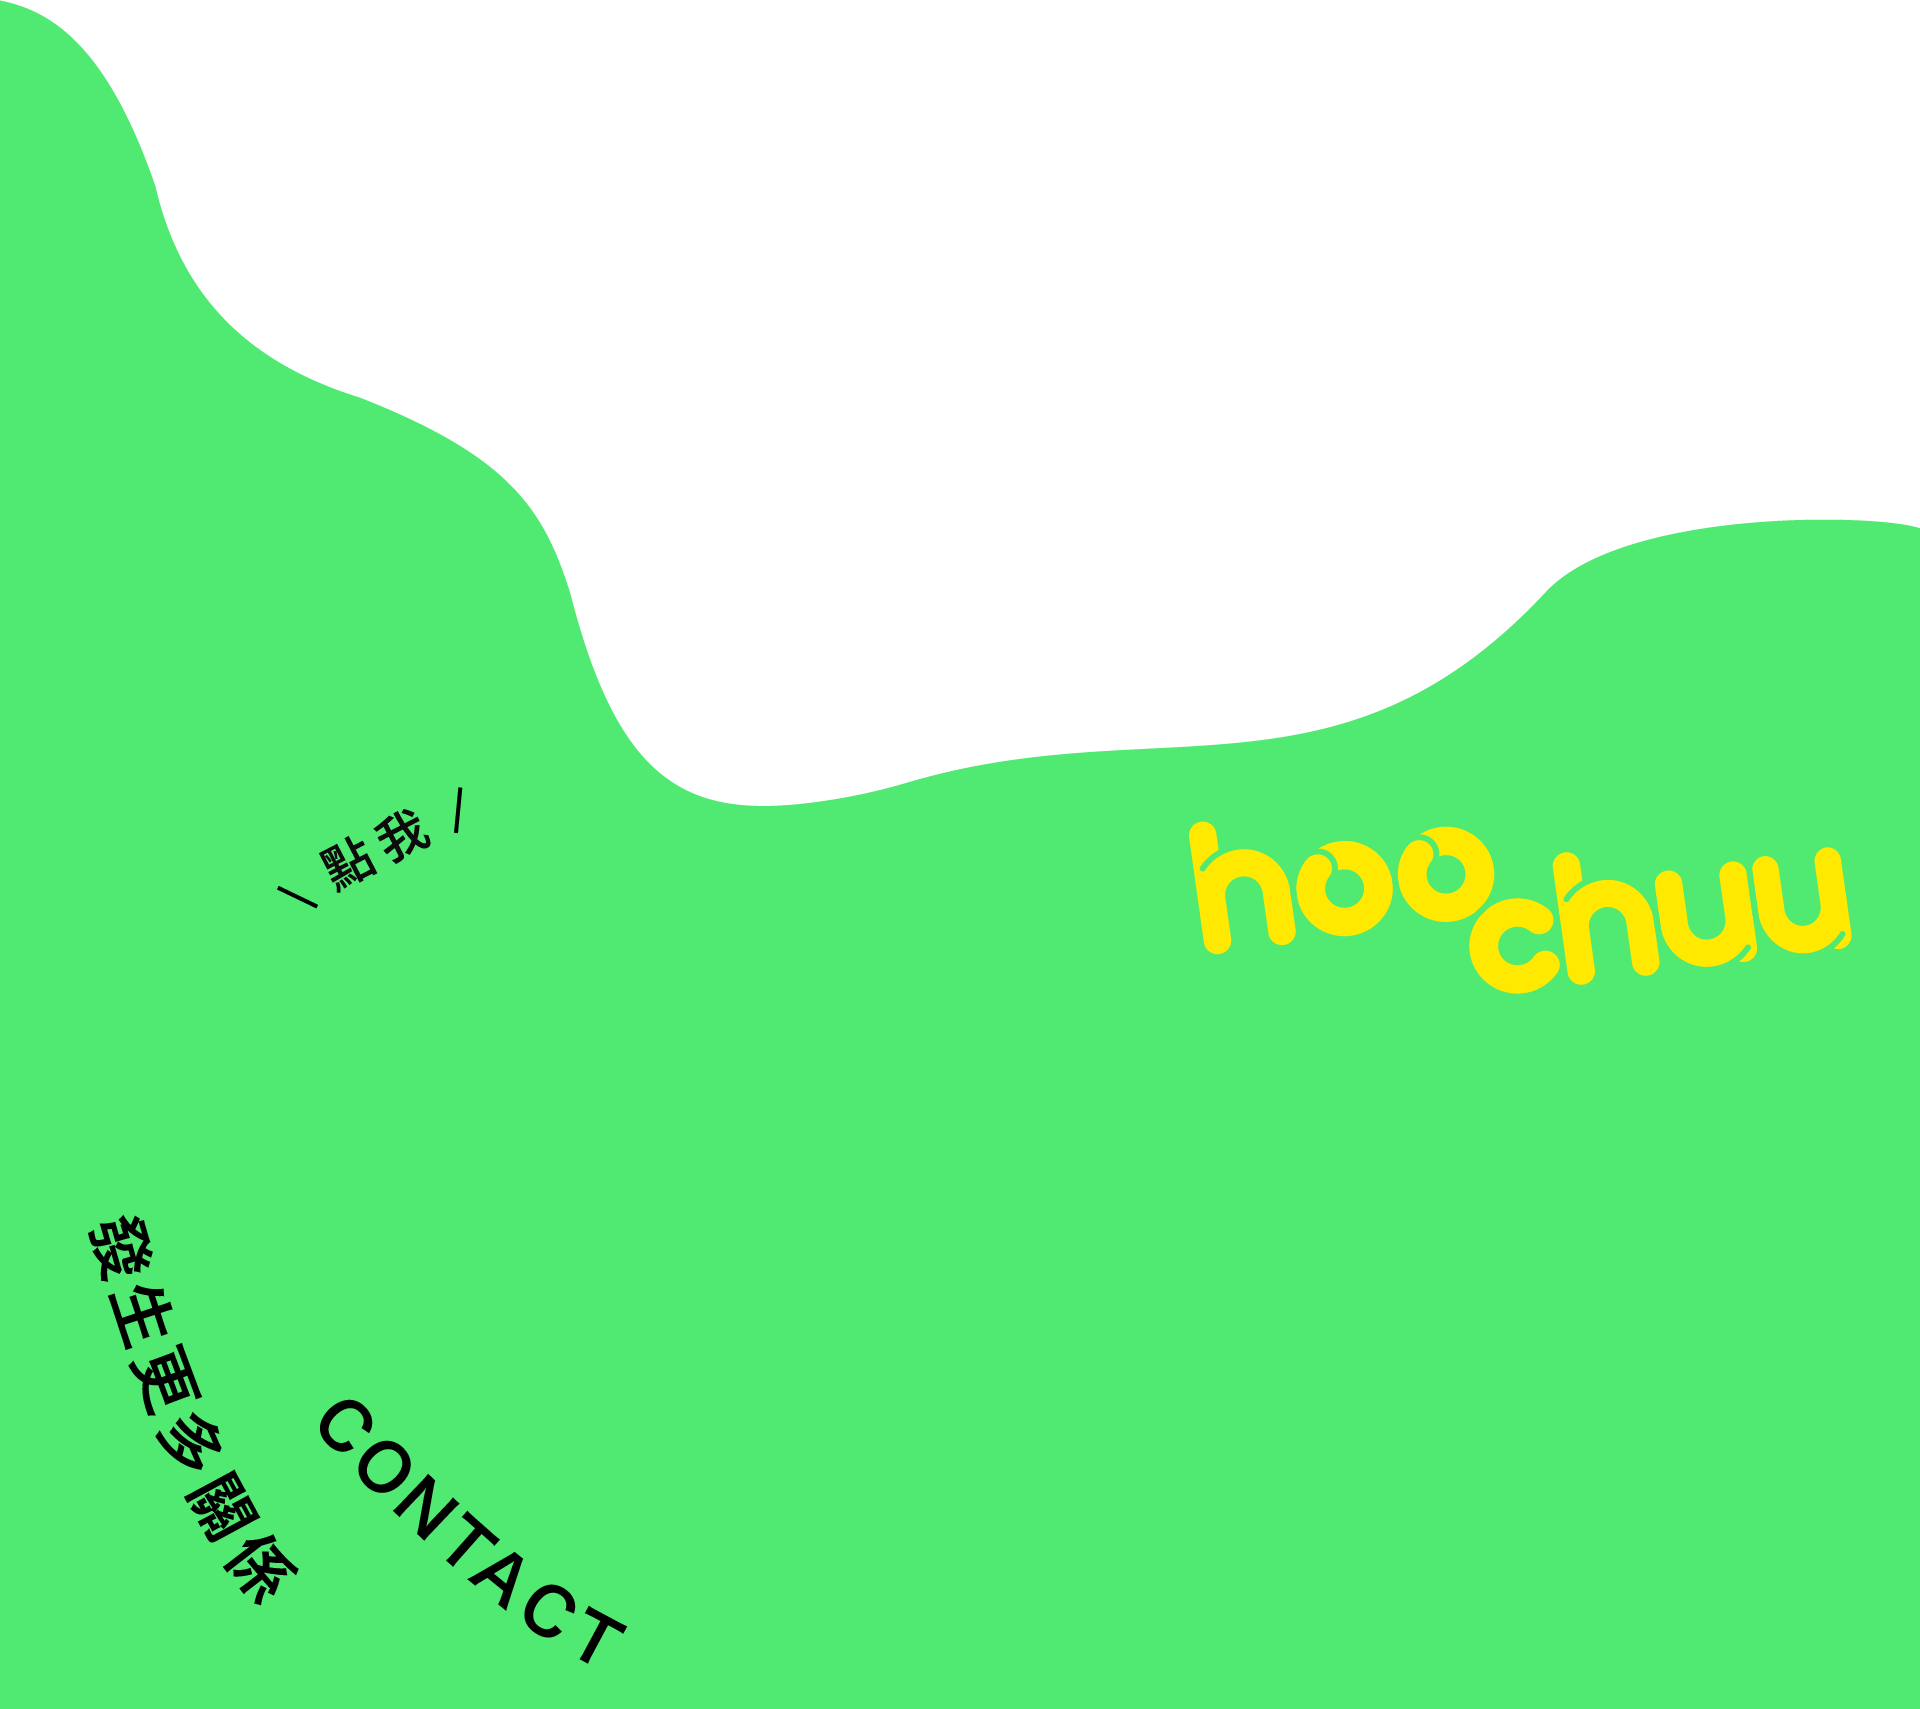
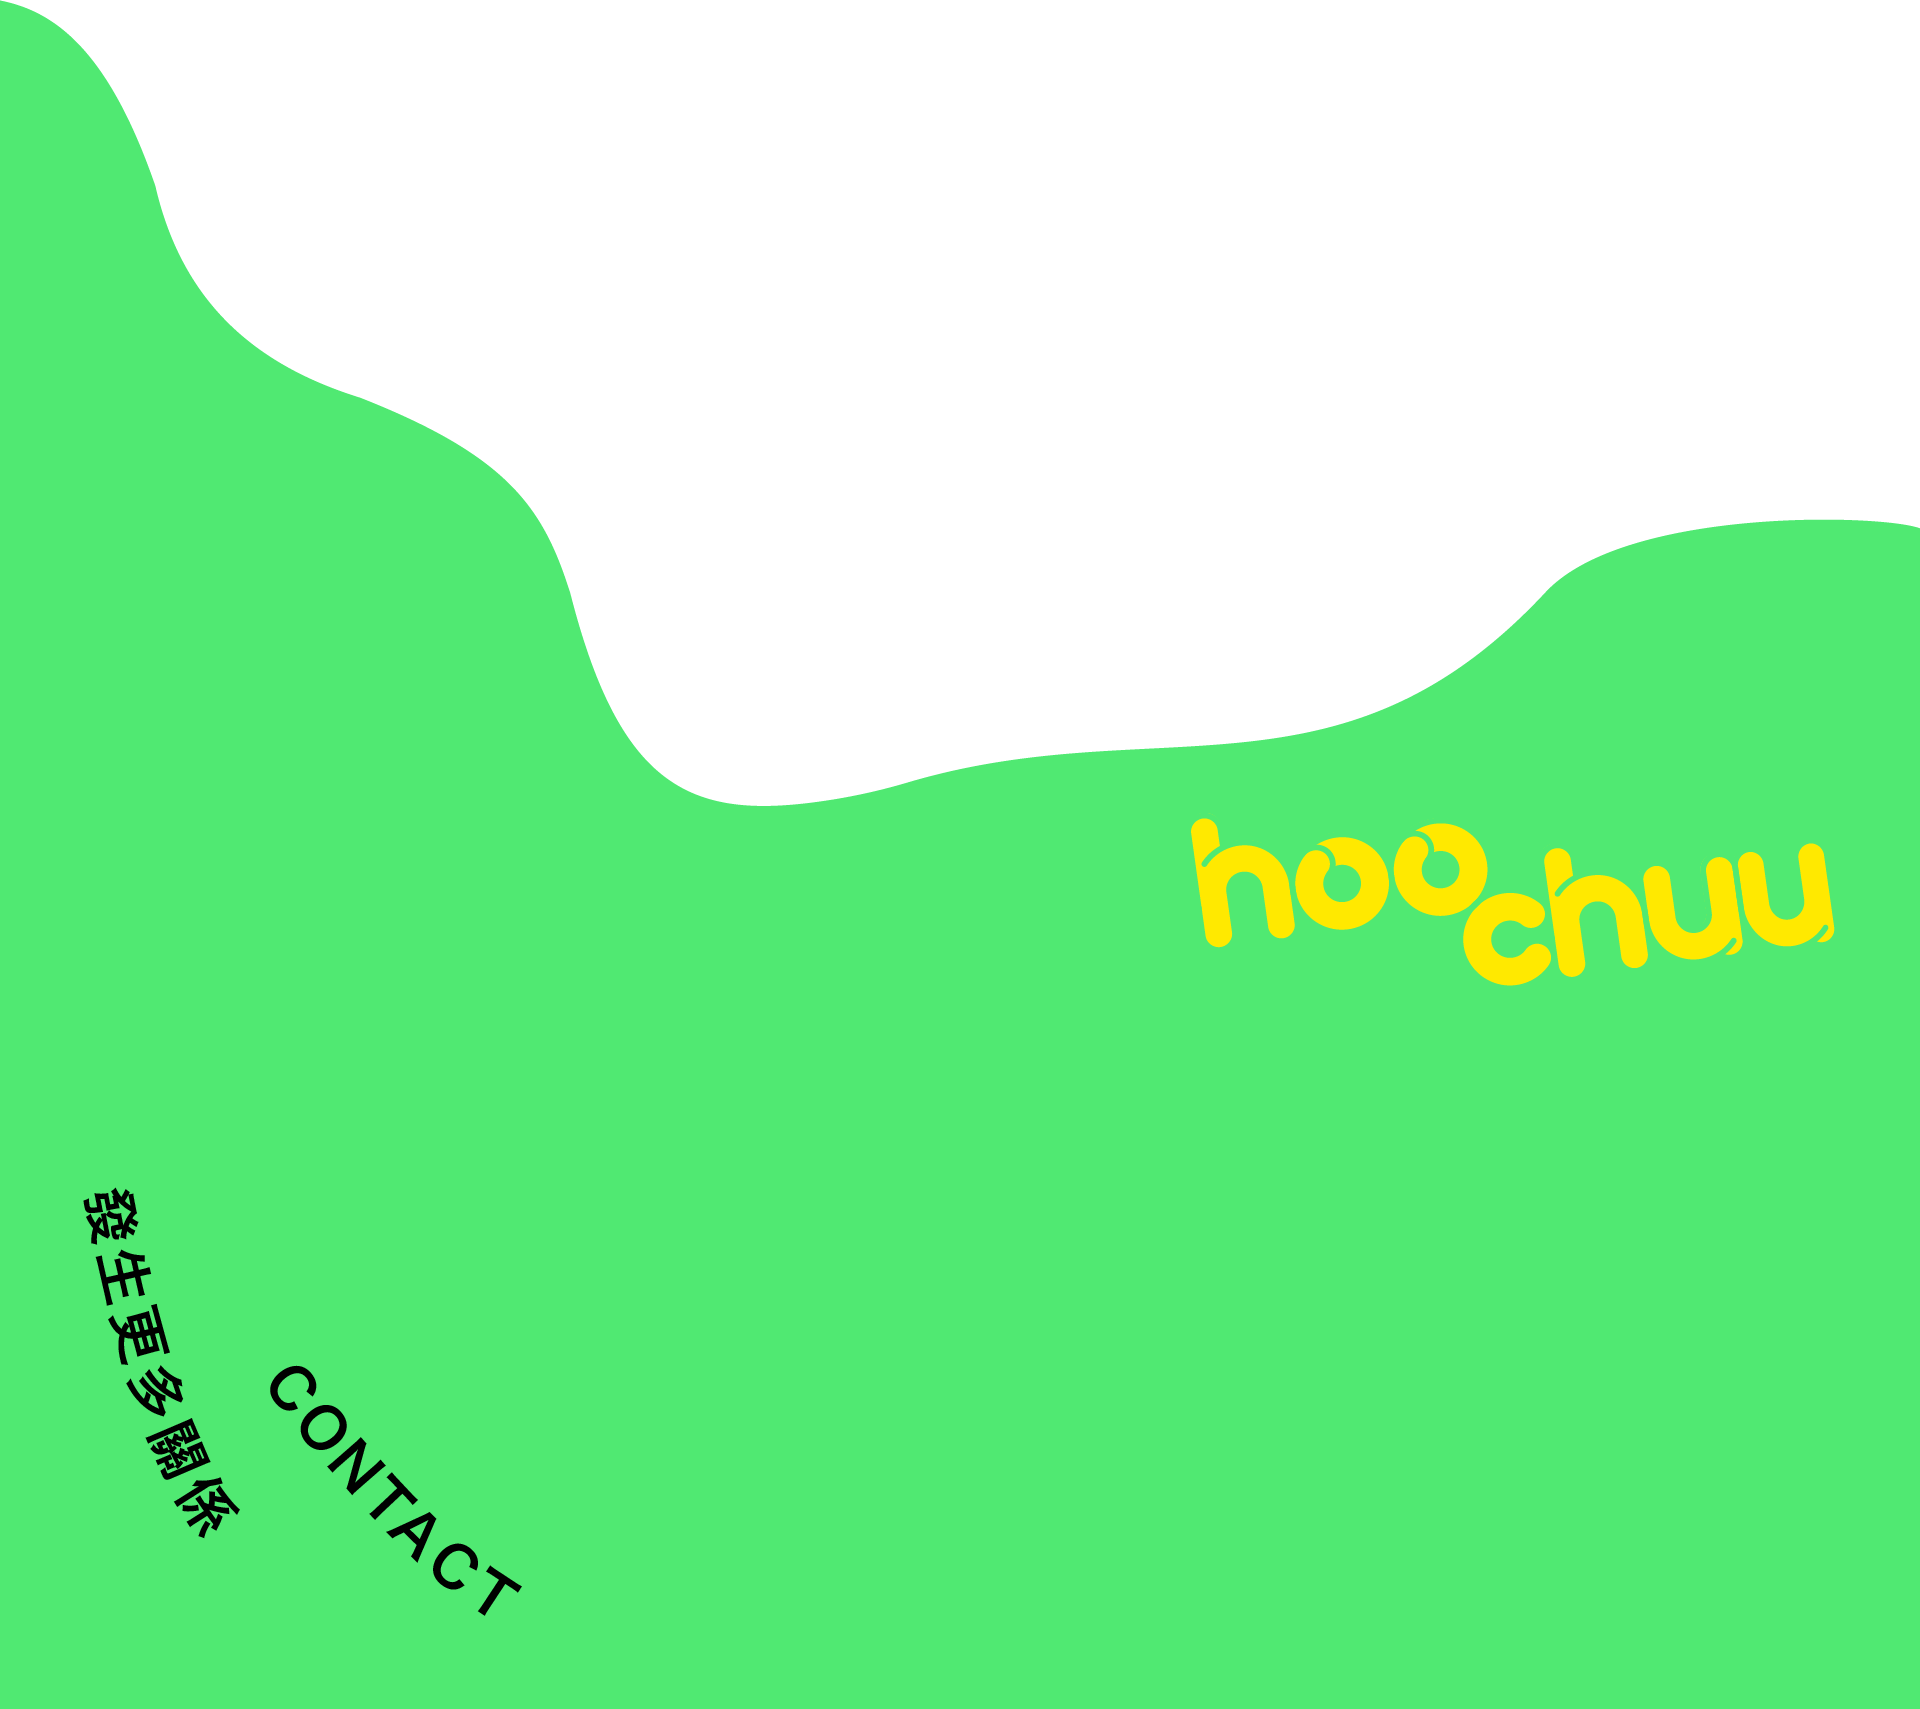
add lottie clickme hint

Changed region(s): [[0.625, 0.4652, 0.9688, 0.5892], [0.0312, 0.6823, 0.3438, 0.9614], [0.1562, 0.4652, 0.2188, 0.5272]]

diff --git a/scripts/main.js b/scripts/main.js
@@ -191,8 +191,9 @@ function doSomething(scrollPos) {
     if(scrollPos <= scrollPos__check1)
     {
       if(applybuttonHasMoved) {
-        applybutton.classList.remove("tocenter");
-        applybutton.classList.add("toleft");
+        lottie1.classList.remove("clickme");
+        // applybutton.classList.remove("tocenter");
+        // applybutton.classList.add("toleft");
         applybuttonHasMoved = false;
       }
       if(lottie1HasShowed) {
@@ -206,8 +207,9 @@ function doSomething(scrollPos) {
     else if(scrollPos <= scrollPos__check2)
     {
       if(applybuttonHasMoved) {
-        applybutton.classList.remove("tocenter");
-        applybutton.classList.add("toleft");
+        lottie1.classList.remove("clickme");
+        // applybutton.classList.remove("tocenter");
+        // applybutton.classList.add("toleft");
         applybuttonHasMoved = false;
       }
       if(!lottie1HasShowed) {
@@ -222,8 +224,9 @@ function doSomething(scrollPos) {
     else if(scrollPos <= scrollPos__check3)
     {
       if(applybuttonHasMoved) {
-        applybutton.classList.remove("tocenter");
-        applybutton.classList.add("toleft");
+        lottie1.classList.remove("clickme");
+        // applybutton.classList.remove("tocenter");
+        // applybutton.classList.add("toleft");
         applybuttonHasMoved = false;
       }
       bagtop = innerH*-0.2;
@@ -232,8 +235,9 @@ function doSomething(scrollPos) {
     else if(scrollPos <= scrollPos__check4)
     {
       if(applybuttonHasMoved) {
-        applybutton.classList.remove("tocenter");
-        applybutton.classList.add("toleft");
+        lottie1.classList.remove("clickme");
+        // applybutton.classList.remove("tocenter");
+        // applybutton.classList.add("toleft");
         applybuttonHasMoved = false;
       }
       bagtop = innerH*-0.2;
@@ -242,8 +246,9 @@ function doSomething(scrollPos) {
     else if(scrollPos <= scrollPos__check5)
     {
       if(applybuttonHasMoved) {
-        applybutton.classList.remove("tocenter");
-        applybutton.classList.add("toleft");
+        lottie1.classList.remove("clickme");
+        // applybutton.classList.remove("tocenter");
+        // applybutton.classList.add("toleft");
         applybuttonHasMoved = false;
       }
       bagtop = innerH*-0.2;
@@ -252,8 +257,9 @@ function doSomething(scrollPos) {
     else if(scrollPos <= scrollPos__check6)
     {
       if(applybuttonHasMoved) {
-        applybutton.classList.remove("tocenter");
-        applybutton.classList.add("toleft");
+        lottie1.classList.remove("clickme");
+        // applybutton.classList.remove("tocenter");
+        // applybutton.classList.add("toleft");
         applybuttonHasMoved = false;
       }
       bagtop = innerH*-0.2;
@@ -262,8 +268,9 @@ function doSomething(scrollPos) {
     else
     {
       if(!applybuttonHasMoved) {
-        applybutton.classList.remove("toleft");
-        applybutton.classList.add("tocenter");
+        lottie1.classList.add("clickme");
+        // applybutton.classList.remove("toleft");
+        // applybutton.classList.add("tocenter");
         applybuttonHasMoved = true;
       }
       bagtop = innerH*-0.2;

diff --git a/style/style.css b/style/style.css
@@ -276,6 +276,13 @@ img {
     z-index: 6;
     opacity: 0;
 }
+#lottie1.clickme {
+    background: url(../img/lottieclick.png);
+    background-repeat: no-repeat;
+    /* background-position: 0; */
+    background-size: contain;
+    
+}
 #lottie1.fadein {
     opacity: 1;
     -webkit-animation:fadein 1s linear normal ;
